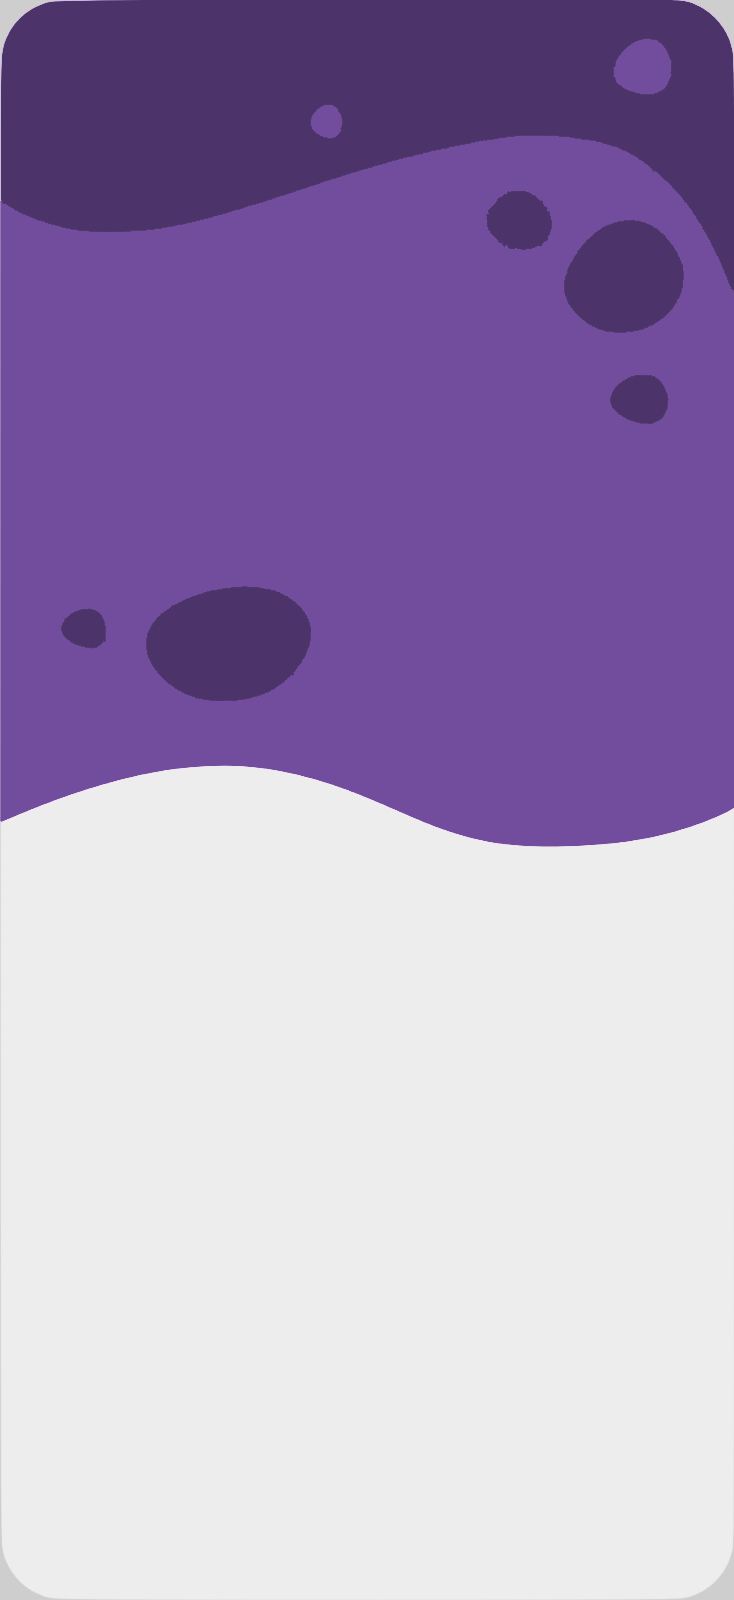
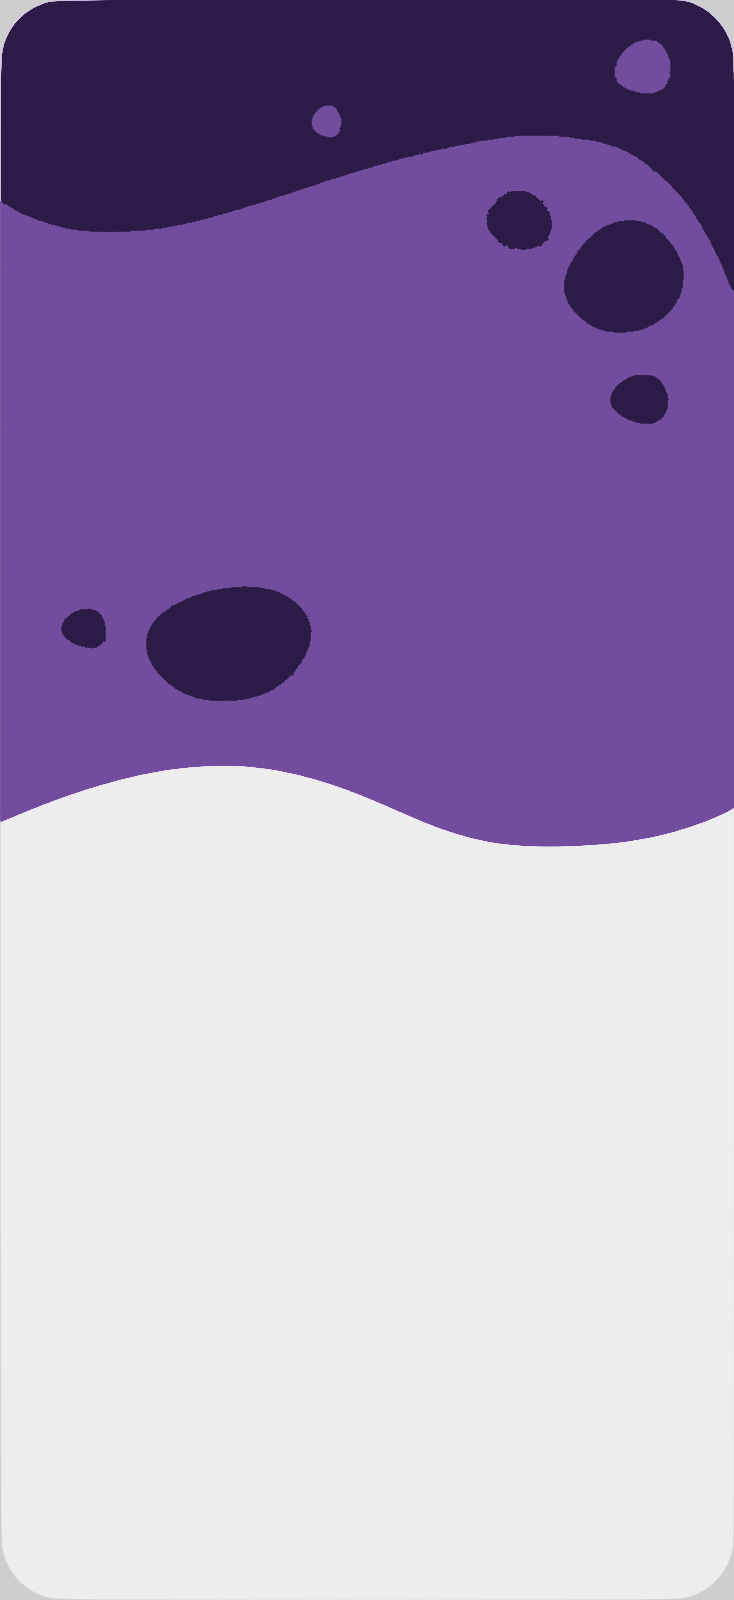
bg img

Changed region(s): [[0.0, 0.0, 1.0, 0.2812], [0.1798, 0.3438, 0.4196, 0.4375], [0.0899, 0.375, 0.1499, 0.4062]]

diff --git a/src/screens/RegisterScreen.js b/src/screens/RegisterScreen.js
@@ -8,7 +8,7 @@ import {
 
 import Icon from "react-native-vector-icons/Ionicons";
 const logoH = require("../assets/img/logoHorizontal.png");
-import background from "../assets/img/background4.png";
+import background from "../assets/img/background3.png";
 
 import LoginButton from "../components/loginButton";
 import FormInput from "../components/formInput";
